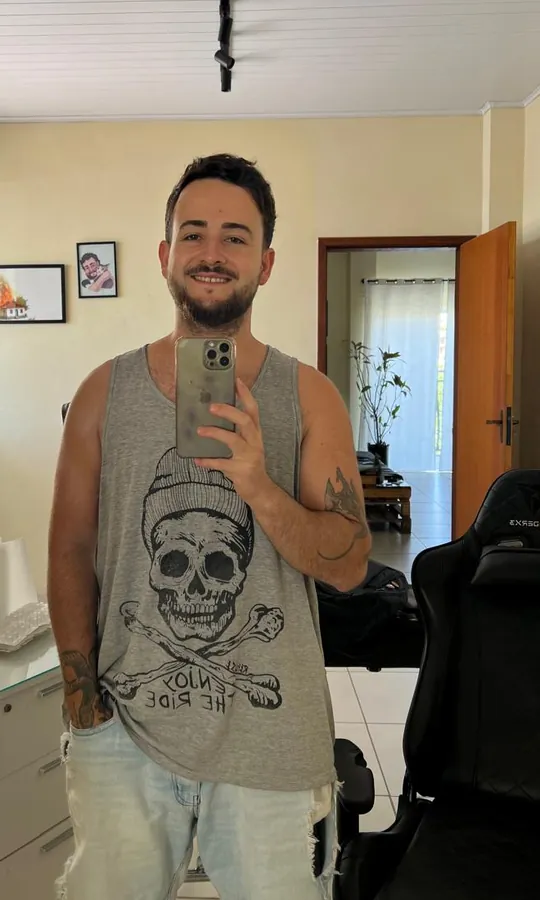
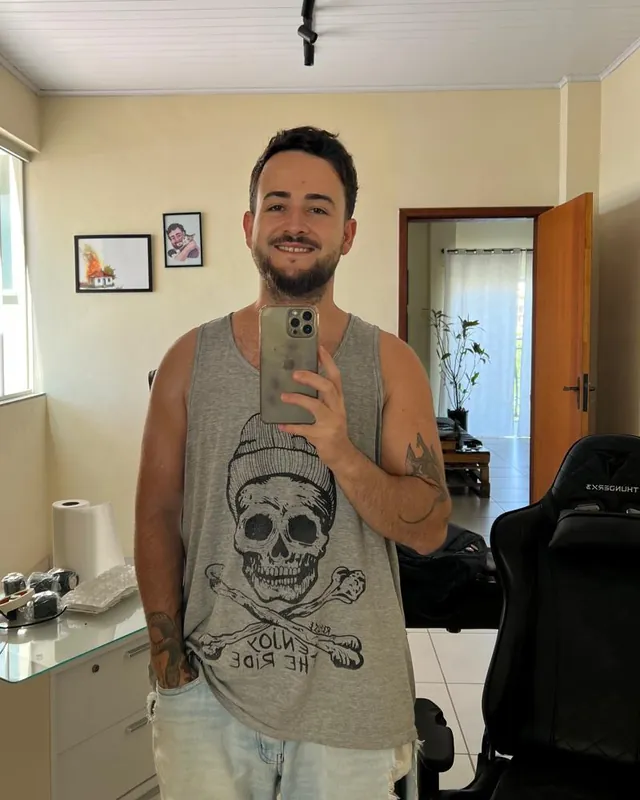
Igor Augusto: volta o comparador de arrastar com os outros casos ao lado
Claude-Session: https://claude.ai/code/session_01WrThtwVHWFzP5CCmwTtaPj

diff --git a/sites/igor-augusto/index.html b/sites/igor-augusto/index.html
@@ -128,16 +128,25 @@ section.tight{padding-top:0}
 
 /* resultados */
 .results{background:var(--surface);border-block:1px solid var(--line)}
-.cases{display:grid;grid-template-columns:repeat(3,1fr);gap:20px}
+.cases{display:grid;grid-template-columns:1.2fr .8fr;gap:28px;align-items:start}
 .case{margin:0;display:flex;flex-direction:column;gap:10px;min-width:0}
-.case .pair{display:grid;grid-template-columns:1fr 1fr;gap:4px}
-.case .pair div{position:relative;min-width:0}
-.case img{width:100%;aspect-ratio:3/5;object-fit:cover;background:var(--bg)}
-.case .pair span{position:absolute;left:8px;bottom:8px;font-family:var(--display);font-style:italic;font-weight:800;text-transform:uppercase;font-size:.95rem;background:var(--bg);padding:2px 8px}
-.case .pair div:last-child span{background:var(--red);color:var(--on-red)}
 .case figcaption{font-family:var(--display);font-style:italic;font-weight:800;text-transform:uppercase;font-size:1.1rem;color:var(--muted)}
+.compare{position:relative;aspect-ratio:4/5;overflow:hidden;background:var(--bg);user-select:none;touch-action:pan-y;max-width:100%}
+.compare img{position:absolute;inset:0;width:100%;height:100%;object-fit:cover}
+.compare .after{clip-path:inset(0 0 0 var(--pos,50%))}
+.compare .handle{position:absolute;top:0;bottom:0;left:var(--pos,50%);width:3px;margin-left:-1.5px;background:var(--fg);pointer-events:none}
+.compare .handle::after{content:"◀ ▶";position:absolute;top:50%;left:50%;transform:translate(-50%,-50%) skewX(-10deg);background:var(--red);color:var(--on-red);font-size:.8rem;letter-spacing:.1em;padding:10px 12px;white-space:nowrap}
+.compare .lbl{position:absolute;bottom:14px;font-family:var(--display);font-style:italic;font-weight:900;text-transform:uppercase;font-size:1.2rem;background:var(--bg);padding:4px 12px;pointer-events:none}
+.compare .lbl.b{left:14px}.compare .lbl.a{right:14px;background:var(--red);color:var(--on-red)}
+.compare input{position:absolute;inset:0;width:100%;height:100%;opacity:0;cursor:ew-resize;margin:0}
+.side{display:flex;flex-direction:column;gap:24px;min-width:0}
+.pair{display:grid;grid-template-columns:1fr 1fr;gap:4px}
+.pair div{position:relative;min-width:0}
+.pair img{width:100%;aspect-ratio:4/5;object-fit:cover;object-position:50% 15%;background:var(--bg)}
+.pair span{position:absolute;left:8px;bottom:8px;font-family:var(--display);font-style:italic;font-weight:800;text-transform:uppercase;font-size:.95rem;background:var(--bg);padding:2px 8px}
+.pair div:last-child span{background:var(--red);color:var(--on-red)}
 .legal-note{font-size:.85rem;color:var(--muted);border-left:3px solid var(--red);padding-left:12px;margin-top:28px;max-width:70ch}
-@media (max-width:860px){.cases{grid-template-columns:1fr;gap:28px}}
+@media (max-width:860px){.cases{grid-template-columns:1fr}}
 
 /* faixa vermelha */
 .band{background:var(--red);color:var(--on-red)}
@@ -288,30 +297,35 @@ footer a{color:var(--muted)}
     <div class="sec-head">
       <span class="eyebrow">Resultados</span>
       <h2>Constância que aparece no espelho</h2>
-      <p>Alunos reais, acompanhados pelo Igor.</p>
+      <p>Alunos reais, acompanhados pelo Igor. Arraste a barra para comparar.</p>
     </div>
     <div class="cases">
       <figure class="case">
-        <div class="pair">
-          <div><img src="img/caso1-antes.webp?v=20261028f" alt="Aluno antes, de regata cinza em frente ao espelho" width="540" height="900" loading="lazy"><span>Antes</span></div>
-          <div><img src="img/caso1-depois.webp?v=20261028f" alt="O mesmo aluno depois, no mesmo ambiente" width="540" height="900" loading="lazy"><span>Depois</span></div>
+        <div class="compare" id="compare">
+          <img src="img/caso1-antes.webp?v=20261028g" alt="Aluno antes, de regata cinza em frente ao espelho" width="640" height="800" loading="lazy">
+          <img class="after" src="img/caso1-depois.webp?v=20261028g" alt="O mesmo aluno depois, no mesmo ambiente" width="640" height="800" loading="lazy">
+          <span class="handle" aria-hidden="true"></span>
+          <span class="lbl b">Antes</span><span class="lbl a">Depois</span>
+          <input type="range" id="cmp" min="0" max="100" value="50" aria-label="Comparar antes e depois do aluno 01">
         </div>
         <figcaption>Aluno 01</figcaption>
       </figure>
-      <figure class="case">
-        <div class="pair">
-          <div><img src="img/caso2-antes.webp?v=20261028f" alt="Aluno antes, sem camisa e de chapéu de palha" width="540" height="900" loading="lazy"><span>Antes</span></div>
-          <div><img src="img/caso2-depois.webp?v=20261028f" alt="O mesmo aluno depois, sem camisa em frente ao espelho" width="540" height="900" loading="lazy"><span>Depois</span></div>
-        </div>
-        <figcaption>Aluno 02</figcaption>
-      </figure>
-      <figure class="case">
-        <div class="pair">
-          <div><img src="img/caso3-antes.webp?v=20261028f" alt="Aluna antes, de top preto, vista de lado" width="540" height="900" loading="lazy"><span>Antes</span></div>
-          <div><img src="img/caso3-depois.webp?v=20261028f" alt="A mesma aluna depois, de top preto, vista de lado" width="540" height="900" loading="lazy"><span>Depois</span></div>
-        </div>
-        <figcaption>Aluna 03</figcaption>
-      </figure>
+      <div class="side">
+        <figure class="case">
+          <div class="pair">
+            <div><img src="img/caso2-antes.webp?v=20261028g" alt="Aluno antes, sem camisa e de chapéu de palha" width="540" height="900" loading="lazy"><span>Antes</span></div>
+            <div><img src="img/caso2-depois.webp?v=20261028g" alt="O mesmo aluno depois, sem camisa em frente ao espelho" width="540" height="900" loading="lazy"><span>Depois</span></div>
+          </div>
+          <figcaption>Aluno 02</figcaption>
+        </figure>
+        <figure class="case">
+          <div class="pair">
+            <div><img src="img/caso3-antes.webp?v=20261028g" alt="Aluna antes, de top preto, vista de lado" width="540" height="900" loading="lazy"><span>Antes</span></div>
+            <div><img src="img/caso3-depois.webp?v=20261028g" alt="A mesma aluna depois, de top preto, vista de lado" width="540" height="900" loading="lazy"><span>Depois</span></div>
+          </div>
+          <figcaption>Aluna 03</figcaption>
+        </figure>
+      </div>
     </div>
     <p class="legal-note">Imagens publicadas com autorização dos alunos. Resultados variam de pessoa para pessoa e dependem de treino, alimentação e rotina.</p>
   </div>
@@ -442,6 +456,9 @@ footer a{color:var(--muted)}
     function sel(){var r=document.createRange();r.selectNodeContents(document.getElementById('tel'));var x=getSelection();x.removeAllRanges();x.addRange(r);c.textContent='Selecionado';}
     try{navigator.clipboard.writeText('+55 32 99967-0777').then(function(){c.textContent='Copiado';},sel);}catch(e){sel();}
   });
+  var cmp=document.getElementById('compare'), r=document.getElementById('cmp');
+  function upd(){cmp.style.setProperty('--pos',r.value+'%');}
+  r.addEventListener('input',upd); upd();
 })();
 </script>
 </body>
